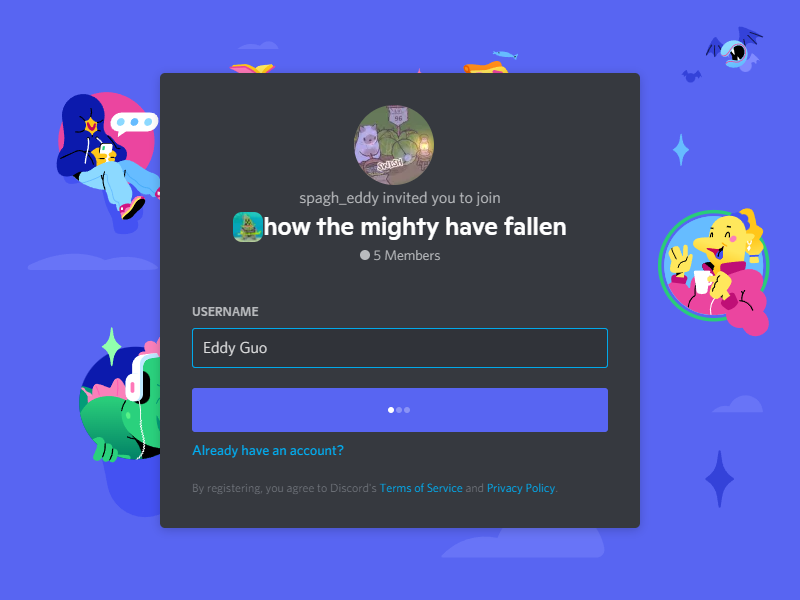
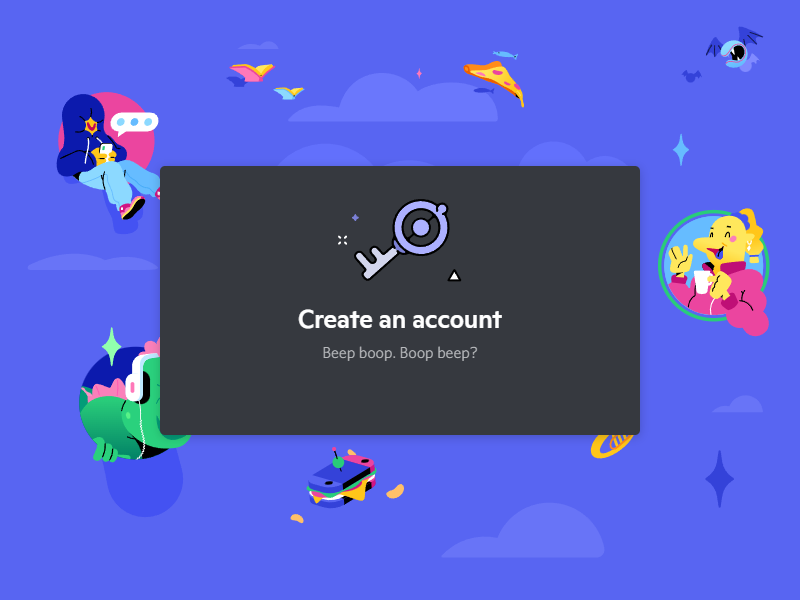
xpath instead of navigation; link does not change!

diff --git a/test.py b/test.py
@@ -1,4 +1,4 @@
-import asyncio
+import asyncio, time
 from pyppeteer import launch
 
 input_selector = '#app-mount > div.app-3xd6d0 > div > div > div > div > form > div > div.block-3uVSn4.marginTop40-Q4o1tS > div.marginBottom8-emkd0_ > div > input'
@@ -15,9 +15,10 @@ async def main():
         'Eddy Guo'
         )
     await page.screenshot({'path': 'before.png'})
-    
+
     await page.click(submit_selector)
-    await page.waitForNavigation();
-    await page.screenshot({'path': 'before.png'})
+    await page.waitForXPath('//*[@id="app-mount"]/div[2]/div/div/div/section/div')
+    await page.screenshot({'path': 'after.png'})
+    await browser.close()
 
 asyncio.get_event_loop().run_until_complete(main())
